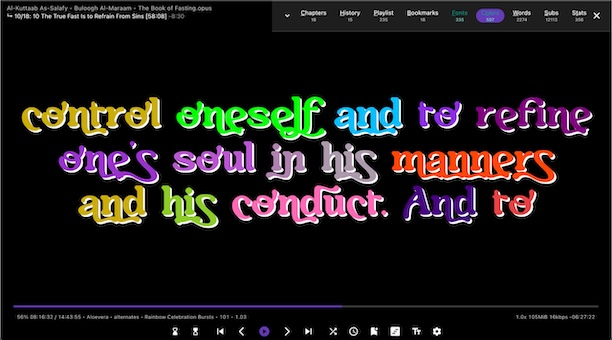
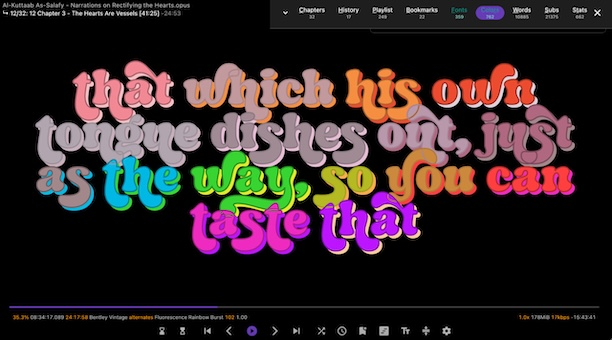
shadow color after prev font color

diff --git a/lib/screens/player_screen.dart b/lib/screens/player_screen.dart
@@ -3902,12 +3902,12 @@ class _PlayerScreenState extends State<PlayerScreen> with WidgetsBindingObserver
           ..style = PaintingStyle.stroke
           ..strokeWidth = _universalStrokeWidth
           ..color = useShadowColor
-              ? _parseColor(effectivePalette.effectiveShadowColor)
+              ? _parseColor(effectivePalette.effectiveShadowColor(0))
               : _getDarkenedStrokeColor(effectivePalette.colors[0], effectivePalette);
         color = null;
       } else {
         final fontColor = _parseColor(effectivePalette.colors[0]);
-        color = useShadowColor ? _parseColor(effectivePalette.effectiveShadowColor) : fontColor;
+        color = useShadowColor ? _parseColor(effectivePalette.effectiveShadowColor(0)) : fontColor;
         foreground = null;
       }
       
@@ -3993,11 +3993,13 @@ class _PlayerScreenState extends State<PlayerScreen> with WidgetsBindingObserver
           ..style = PaintingStyle.stroke
           ..strokeWidth = _universalStrokeWidth
           ..color = useShadowColor
-              ? _parseColor(effectivePalette.effectiveShadowColor)
+              ? _parseColor(effectivePalette.effectiveShadowColor(colorIndex))
               : _getDarkenedStrokeColor(fillColorHex, effectivePalette);
         textColor = null;
       } else {
-        textColor = useShadowColor ? _parseColor(effectivePalette.effectiveShadowColor) : color;
+        textColor = useShadowColor 
+            ? _parseColor(effectivePalette.effectiveShadowColor(colorIndex)) 
+            : color;
         foreground = null;
       }
       
@@ -4118,16 +4120,16 @@ class _PlayerScreenState extends State<PlayerScreen> with WidgetsBindingObserver
           Paint? foreground;
           Color? textColor;
           
-          if (isStroke && palette.strokeColor != null) {
+          if (isStroke) {
             foreground = Paint()
               ..style = PaintingStyle.stroke
               ..strokeWidth = strokeWidth
               ..color = useShadowColor
-                  ? _parseColor(palette.effectiveShadowColor)
+                  ? _parseColor(palette.effectiveShadowColor(colorIndex))
                   : _getDarkenedStrokeColor(palette.colors[colorIndex % palette.colors.length], palette);
             textColor = null;
           } else {
-            textColor = useShadowColor ? _parseColor(palette.effectiveShadowColor) : color;
+            textColor = useShadowColor ? _parseColor(palette.effectiveShadowColor(colorIndex)) : color;
             foreground = null;
           }
           
@@ -4160,16 +4162,16 @@ class _PlayerScreenState extends State<PlayerScreen> with WidgetsBindingObserver
           Paint? foreground;
           Color? textColor;
           
-          if (isStroke && palette.strokeColor != null) {
+          if (isStroke) {
             foreground = Paint()
               ..style = PaintingStyle.stroke
               ..strokeWidth = strokeWidth
               ..color = useShadowColor
-                  ? _parseColor(palette.effectiveShadowColor)
+                  ? _parseColor(palette.effectiveShadowColor(colorIndex))
                   : _getDarkenedStrokeColor(palette.colors[colorIndex % palette.colors.length], palette);
             textColor = null;
           } else {
-            textColor = useShadowColor ? _parseColor(palette.effectiveShadowColor) : color;
+            textColor = useShadowColor ? _parseColor(palette.effectiveShadowColor(colorIndex)) : color;
             foreground = null;
           }
           
@@ -4237,23 +4239,24 @@ class _PlayerScreenState extends State<PlayerScreen> with WidgetsBindingObserver
         ));
         continue;
       }
-      
-      final color = _adjustColorIfBright(palette.colors[colorIndex % palette.colors.length]);
+
+      final currentColorIndex = colorIndex % palette.colors.length;
+      final color = _adjustColorIfBright(palette.colors[currentColorIndex]);
       colorIndex++;
       
       Paint? foreground;
       Color? textColor;
       
-      if (isStroke && palette.strokeColor != null) {
+      if (isStroke) {
         foreground = Paint()
           ..style = PaintingStyle.stroke
           ..strokeWidth = strokeWidth
           ..color = useShadowColor
-              ? _parseColor(palette.effectiveShadowColor)
-              : _getDarkenedStrokeColor(palette.colors[colorIndex % palette.colors.length], palette);
+              ? _parseColor(palette.effectiveShadowColor(currentColorIndex))
+              : _getDarkenedStrokeColor(palette.colors[currentColorIndex], palette);
         textColor = null;
       } else {
-        textColor = useShadowColor ? _parseColor(palette.effectiveShadowColor) : color;
+        textColor = useShadowColor ? _parseColor(palette.effectiveShadowColor(currentColorIndex)) : color;
         foreground = null;
       }
       
@@ -4301,16 +4304,16 @@ class _PlayerScreenState extends State<PlayerScreen> with WidgetsBindingObserver
       Paint? foreground;
       Color? textColor;
       
-      if (isStroke && palette.strokeColor != null) {
+      if (isStroke) {
         foreground = Paint()
           ..style = PaintingStyle.stroke
           ..strokeWidth = strokeWidth
           ..color = useShadowColor
-              ? _parseColor(palette.effectiveShadowColor)
+              ? _parseColor(palette.effectiveShadowColor(colorIndex))
               : _getDarkenedStrokeColor(palette.colors[colorIndex % palette.colors.length], palette);
         textColor = null;
       } else {
-        textColor = useShadowColor ? _parseColor(palette.effectiveShadowColor) : color;
+        textColor = useShadowColor ? _parseColor(palette.effectiveShadowColor(colorIndex)) : color;
         foreground = null;
       }
       

diff --git a/lib/models/color_palette.dart b/lib/models/color_palette.dart
@@ -14,26 +14,28 @@ class ColorPalette {
   });
 
   bool get isSimplePreset => colors.length == 1 && subShadowColor != null;
-  
-  String get effectiveShadowColor {
-    return shadowColor ?? 'ffffff';
+
+  String effectiveShadowColor(int colorIndex) {
+    if (shadowColor != null) return shadowColor!;
+    final nextIndex = (colorIndex + 1) % colors.length;
+    return colors[nextIndex];
   }
-  
+
   String get effectiveStrokeColor {
     if (strokeColor != null) return strokeColor!;
-    return _darkenColor(colors[0], 0.1);
+    return _darkenColor(colors[0], 0.3);
   }
-  
+
   static String _darkenColor(String hexColor, double factor) {
     final color = hexColor.replaceAll('#', '');
     final r = int.parse(color.substring(0, 2), radix: 16);
     final g = int.parse(color.substring(2, 4), radix: 16);
     final b = int.parse(color.substring(4, 6), radix: 16);
-    
+
     final newR = (r * (1 - factor)).clamp(0, 255).round();
     final newG = (g * (1 - factor)).clamp(0, 255).round();
     final newB = (b * (1 - factor)).clamp(0, 255).round();
-    
+
     return '${newR.toRadixString(16).padLeft(2, '0')}${newG.toRadixString(16).padLeft(2, '0')}${newB.toRadixString(16).padLeft(2, '0')}';
   }
 

diff --git a/lib/screens/encoder_screen.dart b/lib/screens/encoder_screen.dart
@@ -2612,12 +2612,15 @@ class _EncoderScreenState extends State<EncoderScreen> {
         Row(
           children: [
             Expanded(
-              child: ElevatedButton.icon(
-                onPressed: (_encoding || _extracting) ? null : _pickFiles,
-                icon: const Icon(Icons.add),
-                label: const Text('Add Files'),
-                style: ElevatedButton.styleFrom(
-                  padding: const EdgeInsets.all(16),
+              child: Tooltip(
+                message: 'Hold ⌘ (Mac) or Ctrl (Win/Linux) to select multiple files',
+                child: ElevatedButton.icon(
+                  onPressed: (_encoding || _extracting) ? null : _pickFiles,
+                  icon: const Icon(Icons.add),
+                  label: const Text('Add Files'),
+                  style: ElevatedButton.styleFrom(
+                    padding: const EdgeInsets.all(16),
+                  ),
                 ),
               ),
             ),

diff --git a/README.md b/README.md
@@ -46,8 +46,6 @@ Opus chaptered audiobook player, encoder and editor with colored subtitles and f
 - apply default font, font size, font line spacing
 - left/right arrows advanced to prev/next subtitle
 - search foreign language subtitles 
-- Text Dim subtitles
-- Big Shadow (must not be in dim mode)
 
 ![](images/japanese.jpg)
 
